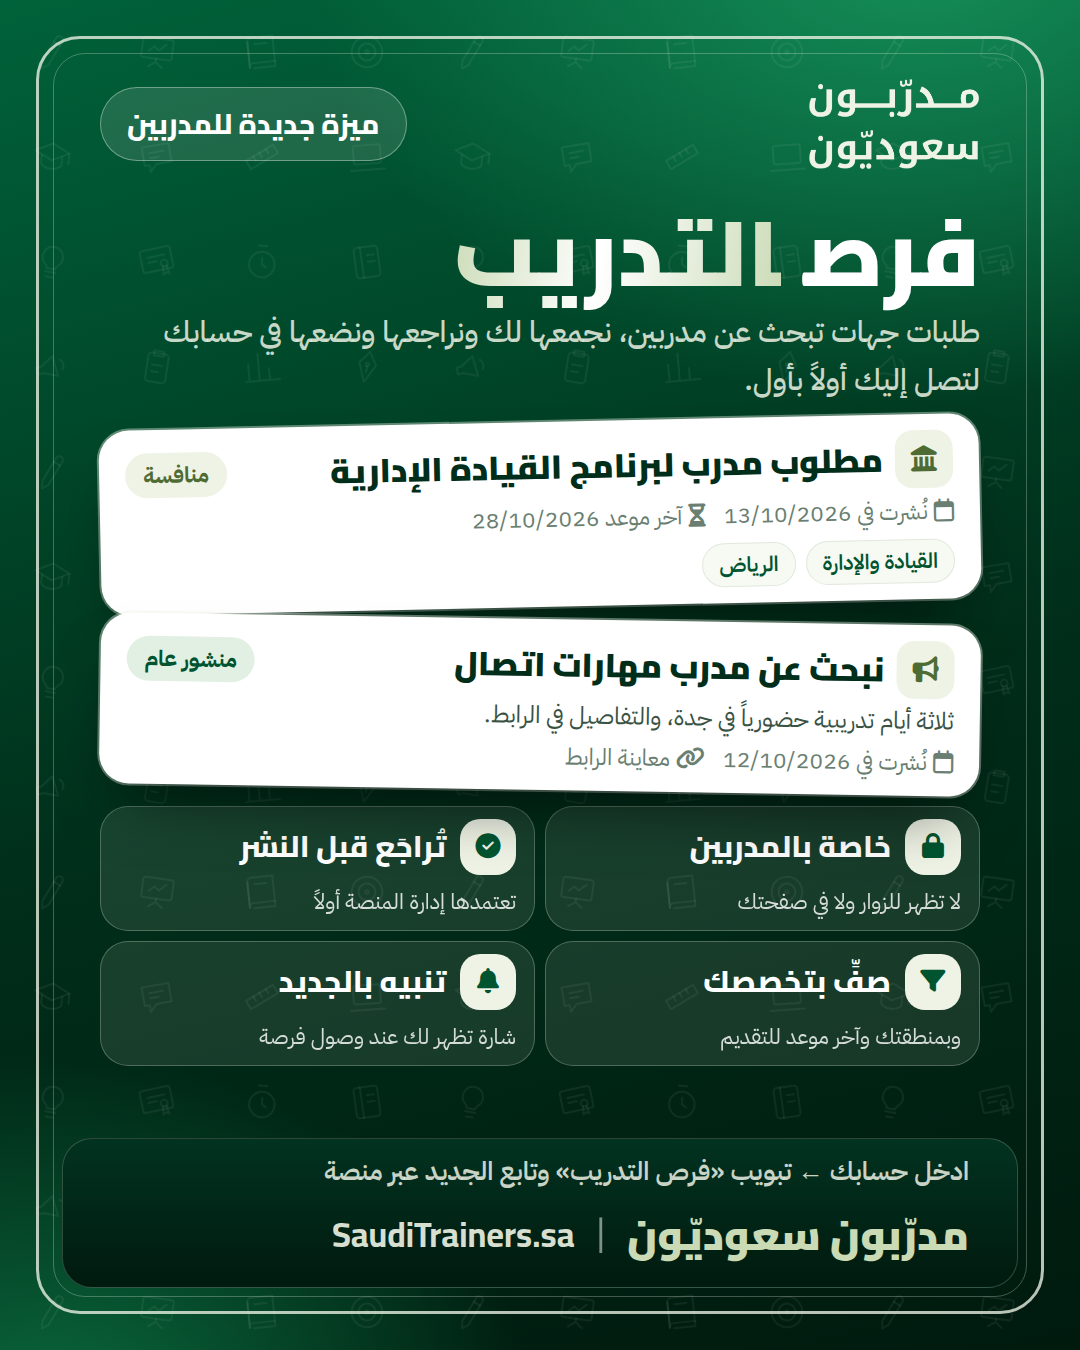
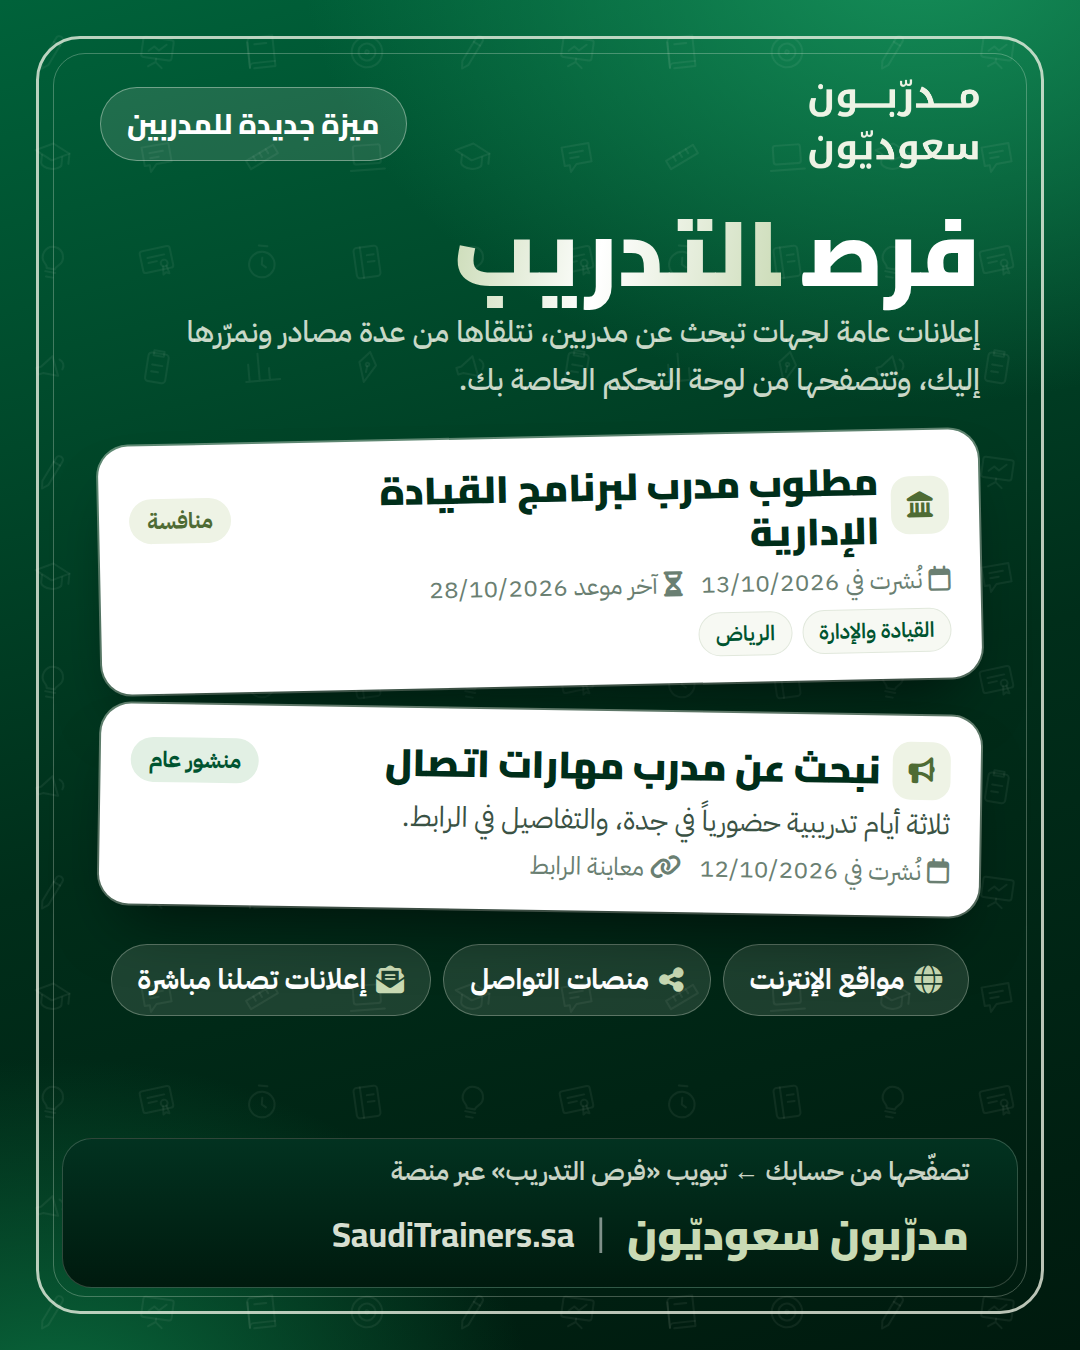
فرص التدريب: إزالة التصفية من صفحة المدرب وتعديل نص التنبيه؛ تقصير محتوى البوستر وإزالة التصفية والمراجعة منه
Claude-Session: https://claude.ai/code/session_01Fu7HFzxcSeu2DaK9aAa2Uf

diff --git a/tools/promo/opps.html b/tools/promo/opps.html
@@ -165,33 +165,30 @@ h2{font-family:'Cairo';font-weight:900;font-size:86px;line-height:1.3}
 .mock .lk b{font-size:25px;color:#005430;display:block}.mock .lk small{font-size:21px;color:#6A7F72;direction:ltr;display:block;text-align:right}
 .news .tiles{margin-top:22px;gap:12px}.news .tiles>div{padding:14px 20px}.news .body{top:200px}.news .tiles .ic{width:58px;height:58px;font-size:26px}.news .tiles h3{font-size:31px}.news .tiles p{font-size:23px}
 
-.opp{background:#fff;color:var(--ink);border-radius:30px;padding:16px 26px;margin-top:12px;box-shadow:0 36px 64px -26px rgba(0,0,0,.6),0 0 0 2px rgba(238,243,229,.4);position:relative}
-.opp:nth-of-type(1){transform:rotate(-1.2deg);margin-top:18px}.opp:nth-of-type(2){transform:rotate(.9deg)}
+.opp{background:#fff;color:var(--ink);border-radius:30px;padding:26px 30px;margin-top:24px;box-shadow:0 36px 64px -26px rgba(0,0,0,.6),0 0 0 2px rgba(238,243,229,.4);position:relative}
+.opp:nth-of-type(1){transform:rotate(-1.2deg);margin-top:34px}.opp:nth-of-type(2){transform:rotate(.9deg)}
 .opp .top2{display:flex;align-items:center;gap:12px;flex-wrap:wrap}
 .opp .ic2{width:58px;height:58px;border-radius:18px;background:#EEF3E5;color:#4E6B34;display:grid;place-items:center;font-size:26px;flex:none}
-.opp h4{font-family:'Cairo';font-weight:900;font-size:33px;line-height:1.3;color:#002E1A;flex:1}
+.opp h4{font-family:'Cairo';font-weight:900;font-size:38px;line-height:1.3;color:#002E1A;flex:1}
 .opp .pl{background:#E2F0E4;color:#005430;font-weight:700;font-size:22px;padding:6px 18px;border-radius:99px}.opp .pl.g{background:#EEF3E5;color:#4E6B34}
-.opp .mt{font-size:23px;color:#6A7F72;margin-top:6px;display:flex;gap:18px;flex-wrap:wrap}.opp .mt i{margin-inline-end:6px}
-.opp p{font-size:24px;line-height:1.5;color:#3A5244;margin-top:4px}
+.opp .mt{font-size:25px;color:#6A7F72;margin-top:6px;display:flex;gap:18px;flex-wrap:wrap}.opp .mt i{margin-inline-end:6px}
+.opp p{font-size:28px;line-height:1.55;color:#3A5244;margin-top:4px}
 .opp .tg{display:flex;gap:10px;margin-top:10px}.opp .tg span{font-size:21px;background:#F7F9F3;border:1.5px solid #E1E8DC;padding:5px 16px;border-radius:99px;color:#005430;font-weight:600}
 .opps .tiles{margin-top:16px;gap:10px}.opps .tiles>div{padding:12px 18px}.opps .tiles .ic{width:56px;height:56px;font-size:25px}.opps .tiles h3{font-size:30px}.opps .tiles p{font-size:22px}.opps .body{top:200px}
+.src{display:flex;gap:12px;margin-top:34px;justify-content:center;flex-wrap:wrap}.src span{display:flex;align-items:center;gap:10px;background:rgba(238,243,229,.12);border:1.5px solid rgba(238,243,229,.3);border-radius:99px;padding:14px 26px;font-size:28px;font-weight:700}.src i{color:#C9DAB4}
 </style></head><body>
 <section class="post t-brand opps" id="n1"><div class="frame"></div>
   <div class="top"><img src="/assets/logo-cream.png" alt=""><span class="kick">ميزة جديدة للمدربين</span></div>
   <div class="body"><h1 style="font-size:92px;line-height:1.15">فرص<span class="acc" style="display:inline;margin-inline-start:.25em">التدريب</span></h1>
-  <p class="sub" style="font-size:30px;margin-top:2px;line-height:1.6">طلبات جهات تبحث عن مدربين، نجمعها لك ونراجعها ونضعها في حسابك لتصل إليك أولاً بأول.</p>
+  <p class="sub" style="font-size:30px;margin-top:2px;line-height:1.6">إعلانات عامة لجهات تبحث عن مدربين، نتلقاها من عدة مصادر ونمرّرها إليك، وتتصفحها من لوحة التحكم الخاصة بك.</p>
   <div class="opp"><div class="top2"><span class="ic2"><i class="fa-solid fa-landmark"></i></span><h4>مطلوب مدرب لبرنامج القيادة الإدارية</h4><span class="pl g">منافسة</span></div>
     <div class="mt"><span><i class="fa-regular fa-calendar"></i>نُشرت في 13/10/2026</span><span><i class="fa-solid fa-hourglass-half"></i>آخر موعد 28/10/2026</span></div>
     <div class="tg"><span>القيادة والإدارة</span><span>الرياض</span></div></div>
   <div class="opp"><div class="top2"><span class="ic2"><i class="fa-solid fa-bullhorn"></i></span><h4>نبحث عن مدرب مهارات اتصال</h4><span class="pl">منشور عام</span></div>
     <p>ثلاثة أيام تدريبية حضورياً في جدة، والتفاصيل في الرابط.</p>
     <div class="mt"><span><i class="fa-regular fa-calendar"></i>نُشرت في 12/10/2026</span><span><i class="fa-solid fa-link"></i>معاينة الرابط</span></div></div>
-  <div class="tiles">
-   <div><div class="hd"><span class="ic"><i class="fa-solid fa-lock"></i></span><h3>خاصة بالمدربين</h3></div><p>لا تظهر للزوار ولا في صفحتك</p></div>
-   <div><div class="hd"><span class="ic"><i class="fa-solid fa-circle-check"></i></span><h3>تُراجَع قبل النشر</h3></div><p>تعتمدها إدارة المنصة أولاً</p></div>
-   <div><div class="hd"><span class="ic"><i class="fa-solid fa-filter"></i></span><h3>صفِّ بتخصصك</h3></div><p>وبمنطقتك وآخر موعد للتقديم</p></div>
-   <div><div class="hd"><span class="ic"><i class="fa-solid fa-bell"></i></span><h3>تنبيه بالجديد</h3></div><p>شارة تظهر لك عند وصول فرصة</p></div></div></div>
-  <div class="foot"><div><div class="lead">ادخل حسابك ← تبويب «فرص التدريب» وتابع الجديد عبر منصة</div><div class="line"><b>مدرّبون سعوديّون</b><i class="sep">|</i><em>SaudiTrainers.sa</em></div></div></div>
+  <div class="src"><span><i class="fa-solid fa-globe"></i>مواقع الإنترنت</span><span><i class="fa-solid fa-share-nodes"></i>منصات التواصل</span><span><i class="fa-solid fa-envelope-open-text"></i>إعلانات تصلنا مباشرة</span></div></div>
+  <div class="foot"><div><div class="lead">تصفّحها من حسابك ← تبويب «فرص التدريب» عبر منصة</div><div class="line"><b>مدرّبون سعوديّون</b><i class="sep">|</i><em>SaudiTrainers.sa</em></div></div></div>
 </section>
 <script>
 Pattern && document.documentElement.style.setProperty('--pat', Pattern.css('#EEF3E5', 0.075)) || 0;

diff --git a/index.html b/index.html
@@ -26,46 +26,46 @@
   <link rel="preconnect" href="https://fonts.gstatic.com" crossorigin>
   <link rel="stylesheet" href="https://fonts.googleapis.com/css2?family=Cairo:wght@600;700;800;900&family=Tajawal:wght@400;500;700;800&family=Almarai:wght@400;700;800&family=IBM+Plex+Sans+Arabic:wght@400;500;600;700&family=Noto+Sans+Arabic:wght@400;500;600;700&display=swap">
   <link rel="stylesheet" href="vendor/fontawesome/css/all.min.css">
-  <link rel="stylesheet" href="css/style.css?v=20261018-1">
+  <link rel="stylesheet" href="css/style.css?v=20261018-2">
 </head>
 <body>
   <div id="boot" class="boot"><img src="assets/logo-cream.png" alt="مدرّبون سعوديّون" width="180" height="96"><span></span></div>
   <div id="app"></div>
   <noscript><p style="padding:40px;text-align:center">يتطلب الموقع تفعيل JavaScript.</p></noscript>
 
-  <script src="js/config.js?v=20261018-1"></script>
+  <script src="js/config.js?v=20261018-2"></script>
   <script>/* وضع «معاينة كمدرب» داخل لوحة الإدارة: قاعدة محلية معزولة، بلا Firebase ولا أتمتة ولا تحليلات */
   (function () { try { var m = new URLSearchParams(location.search).get('preview'); if (m && window.ST_CONFIG) { var c = window.ST_CONFIG; c.firebase = null; c.automationUrl = ''; c.gaId = ''; c.previewMode = m; } } catch (e) {} })();</script>
-  <script src="js/pattern.js?v=20261018-1"></script>
-  <script src="js/store.js?v=20261018-1"></script>
-  <script src="js/data.js?v=20261018-1"></script>
-  <script src="js/utils.js?v=20261018-1"></script>
-  <script src="js/model.js?v=20261018-1"></script>
-  <script src="js/auth.js?v=20261018-1"></script>
-  <script src="js/card.js?v=20261018-1"></script>
-  <script src="js/seo.js?v=20261018-1"></script>
-  <script src="js/home.js?v=20261018-1"></script>
-  <script src="js/forms.js?v=20261018-1"></script>
-  <script src="js/join-promo.js?v=20261018-1"></script>
-  <script src="js/join.js?v=20261018-1"></script>
-  <script src="js/broadcasts.js?v=20261018-1"></script>
-  <script src="js/portal.js?v=20261018-1"></script>
-  <script src="js/sections.js?v=20261018-1"></script>
-  <script src="js/news.js?v=20261018-1"></script>
-  <script src="js/opps.js?v=20261018-1"></script>
-  <script src="js/bulletin.js?v=20261018-1"></script>
-  <script src="js/admin.js?v=20261018-1"></script>
-  <script src="js/admin-forms.js?v=20261018-1"></script>
-  <script src="js/admin-home.js?v=20261018-1"></script>
-  <script src="js/admin-templates.js?v=20261018-1"></script>
-  <script src="js/admin-specs.js?v=20261018-1"></script>
-  <script src="js/admin-social.js?v=20261018-1"></script>
-  <script src="js/mail-render.js?v=20261018-1"></script>
-  <script src="js/admin-mail.js?v=20261018-1"></script>
-  <script src="js/admin-stats.js?v=20261018-1"></script>
-  <script src="js/admin-seo.js?v=20261018-1"></script>
-  <script src="js/admin-preview.js?v=20261018-1"></script>
-  <script src="js/analytics.js?v=20261018-1"></script>
-  <script src="js/app.js?v=20261018-1"></script>
+  <script src="js/pattern.js?v=20261018-2"></script>
+  <script src="js/store.js?v=20261018-2"></script>
+  <script src="js/data.js?v=20261018-2"></script>
+  <script src="js/utils.js?v=20261018-2"></script>
+  <script src="js/model.js?v=20261018-2"></script>
+  <script src="js/auth.js?v=20261018-2"></script>
+  <script src="js/card.js?v=20261018-2"></script>
+  <script src="js/seo.js?v=20261018-2"></script>
+  <script src="js/home.js?v=20261018-2"></script>
+  <script src="js/forms.js?v=20261018-2"></script>
+  <script src="js/join-promo.js?v=20261018-2"></script>
+  <script src="js/join.js?v=20261018-2"></script>
+  <script src="js/broadcasts.js?v=20261018-2"></script>
+  <script src="js/portal.js?v=20261018-2"></script>
+  <script src="js/sections.js?v=20261018-2"></script>
+  <script src="js/news.js?v=20261018-2"></script>
+  <script src="js/opps.js?v=20261018-2"></script>
+  <script src="js/bulletin.js?v=20261018-2"></script>
+  <script src="js/admin.js?v=20261018-2"></script>
+  <script src="js/admin-forms.js?v=20261018-2"></script>
+  <script src="js/admin-home.js?v=20261018-2"></script>
+  <script src="js/admin-templates.js?v=20261018-2"></script>
+  <script src="js/admin-specs.js?v=20261018-2"></script>
+  <script src="js/admin-social.js?v=20261018-2"></script>
+  <script src="js/mail-render.js?v=20261018-2"></script>
+  <script src="js/admin-mail.js?v=20261018-2"></script>
+  <script src="js/admin-stats.js?v=20261018-2"></script>
+  <script src="js/admin-seo.js?v=20261018-2"></script>
+  <script src="js/admin-preview.js?v=20261018-2"></script>
+  <script src="js/analytics.js?v=20261018-2"></script>
+  <script src="js/app.js?v=20261018-2"></script>
 </body>
 </html>

diff --git a/js/opps.js b/js/opps.js
@@ -14,7 +14,6 @@ const Opps = (() => {
   const seenTs = id => { try { return Number(localStorage.getItem(key(id)) || 0); } catch { return 0; } };
   const markSeen = id => { try { localStorage.setItem(key(id), String(Math.max(0, ...approved().map(o => o.ts || 0)))); } catch { /* ignore */ } };
   const unread = id => { const s = seenTs(id); return approved().filter(o => (o.ts || 0) > s && isOpen(o)); };
-  const F = { spec: '', region: '', old: false };
 
   function card(o, fresh) {
     const k = KIND[o.kind] || KIND.post, u = safeUrl(o.url), closed = !isOpen(o);
@@ -29,16 +28,10 @@ const Opps = (() => {
   }
   function tab(main, t) {
     const s = seenTs(t.id), all = approved();
-    let list = all.filter(o => (F.old || isOpen(o)) && (!F.spec || o.spec === F.spec) && (!F.region || o.region === F.region));
-    main.innerHTML = `<div class="dash-h"><h2>فرص التدريب</h2><span class="muted small">منشورات ومنافسات عامة تبحث عن مدربين، اعتمدتها الإدارة</span></div>
-      <div class="banner info" style="margin-bottom:12px"><i class="fa-solid fa-circle-info"></i><span>هذه الفرص منقولة من مصادر عامة ولا تتبنّاها المنصة ولا تضمنها. تحقق من الجهة قبل التواصل. هذه الصفحة خاصة بالمدربين ولا تظهر للزوار.</span></div>
-      <div class="bl-bar"><label>التخصص<select id="of-spec"><option value="">الكل</option>${SPECIALTIES.map(x => `<option value="${esc(x.k)}" ${F.spec === x.k ? 'selected' : ''}>${esc(x.name)}</option>`).join('')}</select></label>
-        <label>المنطقة<select id="of-region"><option value="">الكل</option>${REGIONS.map(x => `<option value="${esc(x.k)}" ${F.region === x.k ? 'selected' : ''}>${esc(x.name)}</option>`).join('')}</select></label>
-        <label class="chk" style="margin:0"><input type="checkbox" id="of-old" ${F.old ? 'checked' : ''}><span>إظهار المنتهية</span></label></div>
-      ${list.length ? list.map(o => card(o, (o.ts || 0) > s)).join('') : `<div class="empty"><i class="fa-solid fa-handshake-angle"></i><h3>${all.length ? 'لا توجد فرص بهذه التصفية' : 'لا توجد فرص حالياً'}</h3><p>حين تعتمد الإدارة فرصة جديدة تظهر هنا وتصلك بشارة.</p></div>`}`;
-    $('#of-spec', main).onchange = e => { F.spec = e.target.value; tab(main, t); };
-    $('#of-region', main).onchange = e => { F.region = e.target.value; tab(main, t); };
-    $('#of-old', main).onchange = e => { F.old = e.target.checked; tab(main, t); };
+    const list = all.filter(isOpen);
+    main.innerHTML = `<div class="dash-h"><h2>فرص التدريب</h2><span class="muted small">إعلانات عامة تبحث عن مدربين، تصلك من عدة مصادر</span></div>
+      <div class="banner info" style="margin-bottom:12px"><i class="fa-solid fa-circle-info"></i><span>هذه الفرص منقولة من مصادر عامة في الإنترنت ومنصات التواصل الاجتماعي، وبعضها يرسل لنا مباشرة. نحاول قدر الإمكان التحقق من صحة الإعلان وسلامة المصدر، ونهيب بجميع المدربين التحقق دائماً عند إجراء التعاملات عبر الإنترنت.</span></div>
+      ${list.length ? list.map(o => card(o, (o.ts || 0) > s)).join('') : `<div class="empty"><i class="fa-solid fa-handshake-angle"></i><h3>لا توجد فرص حالياً</h3><p>حين تعتمد الإدارة فرصة جديدة تظهر هنا وتصلك بشارة.</p></div>`}`;
     markSeen(t.id); $$('[data-tab="opps"] .badge').forEach(x => x.remove());
   }
 
